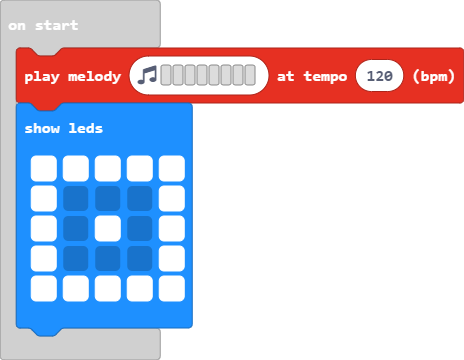
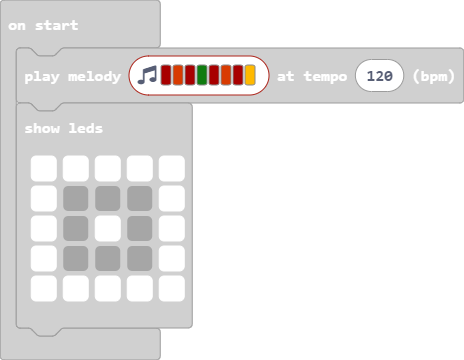
Update main.blocks, main.ts

Changed region(s): [[0.0302, 0.1222, 1.0, 0.9472]]

diff --git a/main.ts b/main.ts
@@ -13,7 +13,7 @@ input.onButtonPressed(Button.AB, function () {
 input.onButtonPressed(Button.B, function () {
     basic.showIcon(IconNames.Sad)
 })
-music.playMelody("- - - - - - - - ", 120)
+music.playMelody("C5 B C5 G C5 B C5 A ", 120)
 basic.showLeds(`
     # # # # #
     # . . . #
